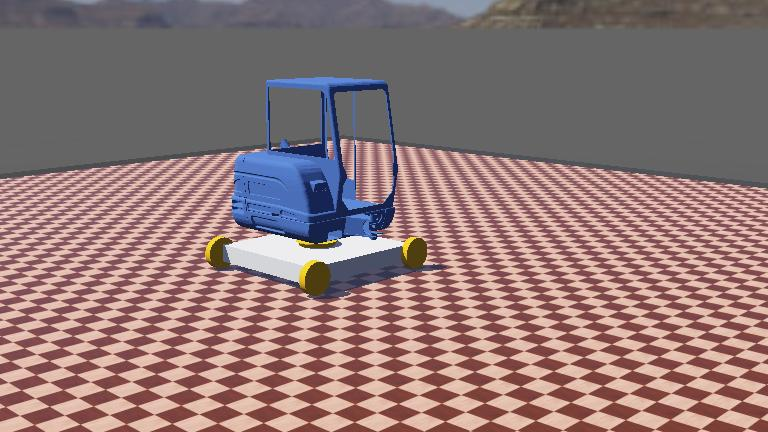
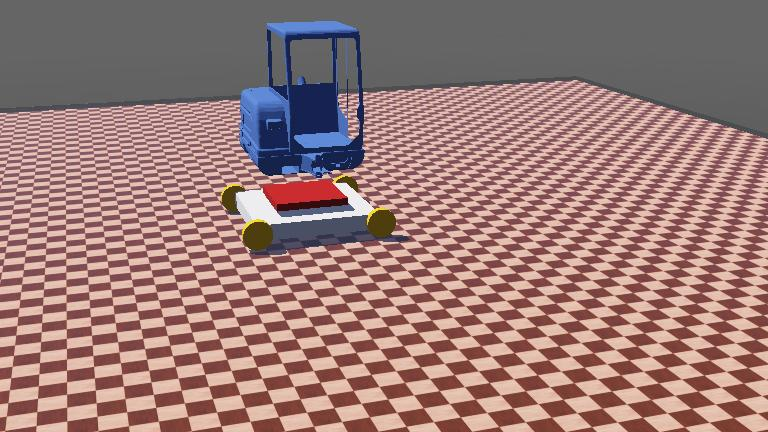
add: trial in turret control

diff --git a/controllers/obs_controller/obs_controller.py b/controllers/obs_controller/obs_controller.py
@@ -3,20 +3,32 @@ from controller import Supervisor
 # Create the Robot instance
 robot = Supervisor()
 
-# Get the time step of the current world.
+# Get the time step of the current world
 timestep = int(robot.getBasicTimeStep())
 
 # Initialize motors for all wheels
-motors = []
+motors = [robot.getDevice(f"wheel{i}_motor") for i in range(1, 5)]
 
-for i in range(1, 5):
-    motor = robot.getDevice("wheel" + str(i) + "_motor")
-    motor.setVelocity(0.0)
+# Initialize turret motor
+turret_motor = robot.getDevice("turret_motor")
+
+# Set motors to velocity control mode
+for motor in motors:
     motor.setPosition(float("inf"))
-    motors.append(motor)
+    motor.setVelocity(0.0)
+
+# Set turret motor to velocity control mode
+turret_motor.setPosition(float("inf"))
+turret_motor.setVelocity(0.0)
 
 # Main loop:
-# - perform simulation steps until Webots is stopping the controller
+start_time = robot.getTime()
+
 while robot.step(timestep) != -1:
-    for i in range(4):
-        motors[i].setVelocity(1.0)
+    # Set velocity for the first 3 seconds, then stop
+    velocity = 1.0 if robot.getTime() - start_time <= 3.0 else 0.0
+    for motor in motors:
+        motor.setVelocity(velocity)
+
+    # Set turret motor velocity
+    turret_motor.setVelocity(1.0)
